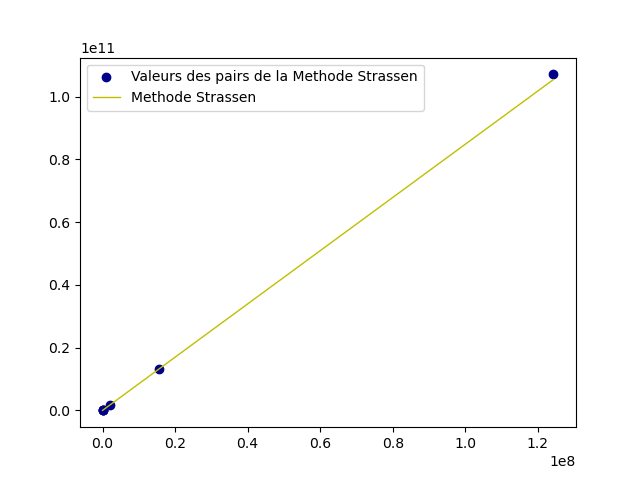
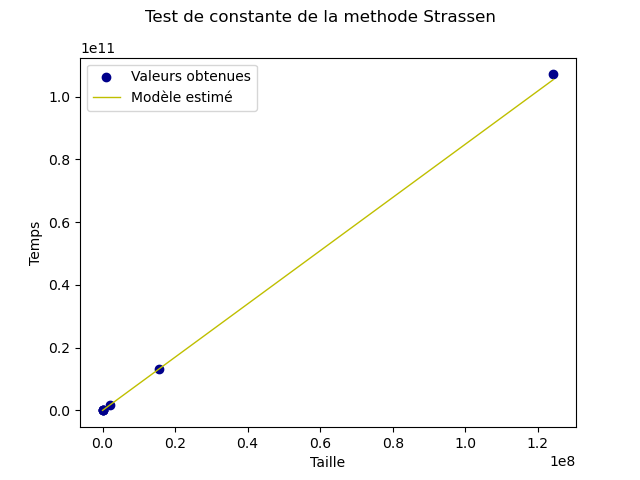
Push pour standardiser

diff --git a/TP1-A23/TP1-A23/argparser.py b/TP1-A23/TP1-A23/argparser.py
@@ -1,61 +1,35 @@
 import argparse
 import os.path
 import sys
-import time
+from execute import execute
 
-# Créer un parseur avec les options requises
-parser = argparse.ArgumentParser(description='Faire une opération sur deux fichiers de matrices.')
-parser.add_argument('-a', dest='algo', required=True, choices=['conv', 'strassen', 'strassenSeuil'], help='l\'algorithme à utiliser')
-parser.add_argument('-e1', dest='path1', required=True, type=str, help='chemin absolu du premier fichier de matrice')
-parser.add_argument('-e2', dest='path2', required=True, type=str, help='chemin absolu du deuxième fichier de matrice')
-parser.add_argument('-p', dest='print', action='store_true', help='affiche la matrice résultat sans texte superflu')
-parser.add_argument('-t', dest='time', action='store_true', help='affiche le temps d\'exécution en millisecondes')
+parser = argparse.ArgumentParser(
+    description='Faire une opération sur deux fichiers de matrices.')
+parser.add_argument('-a', dest='algo', required=True,
+                    choices=['conv', 'strassen', 'strassenSeuil'], help='l\'algorithme à utiliser')
+parser.add_argument('-e1', dest='path1', required=True, type=str,
+                    help='chemin absolu du premier fichier de matrice')
+parser.add_argument('-e2', dest='path2', required=True, type=str,
+                    help='chemin absolu du deuxième fichier de matrice')
+parser.add_argument('-p', dest='print', action='store_true',
+                    help='true affiche la matrice résultat sans texte superflu. False par défaut')
+parser.add_argument('-t', dest='time', action='store_true',
+                    help='true affiche le temps d\'exécution en millisecondes. False par défaut')
 
-# Vérifier que les fichiers existent
+# Verify that the files exist
+
+
 def check_file_exists(path):
     if not os.path.isfile(path):
         print(f'Erreur : Le fichier {path} n\'existe pas.')
         sys.exit(1)
 
-# Parser les arguments
+
+# Parse arguments
 args = parser.parse_args()
 check_file_exists(args.path1)
 check_file_exists(args.path2)
 
-# Lire les matrices depuis les fichiers
-with open(args.path1, 'r') as f:
-    mat1 = [[float(num) for num in line.split()] for line in f.readlines()]
-with open(args.path2, 'r') as f:
-    mat2 = [[float(num) for num in line.split()] for line in f.readlines()]
-
-# Vérifier que les matrices ont les mêmes dimensions
-if len(mat1) != len(mat2) or any(len(mat1[i]) != len(mat2[i]) for i in range(len(mat1))):
-    print('Erreur : Les matrices n\'ont pas les mêmes dimensions.')
-    sys.exit(1)
-
-# Exécuter l'algorithme demandé
-start_time = time.time()
-if args.algo == 'conv':
-    result = [[sum([mat1[i][k] * mat2[k][j] for k in range(len(mat1))]) for j in range(len(mat2[0]))] for i in range(len(mat1))]
-elif args.algo == 'strassen':
-    # TODO: Exécuter l'algorithme de Strassen
-    result = mat1
-elif args.algo == 'strassenSeuil':
-    # TODO: Exécuter l'algorithme de Strassen avec seuil
-    result = mat1
-end_time = time.time()
-
-# Afficher la matrice résultat, avec ou sans texte superflu
-if args.print:
-    for line in result:
-        print(' '.join(str(num) for num in line))
-else:
-    print('Résultat :')
-    for line in result:
-        print(' | '.join(str(num) for num in line))
-
-# Afficher le temps d'exécution, avec ou sans texte superflu
-if args.time:
-    print(f'Temps d\'exécution : {(end_time - start_time) * 1000:.2f} ms')
-else:
-    print(f'Temps d\'exécution : {(end_time - start_time):.2f} secondes')
+# Execute wanted algorithm
+execute(args.path1, args.path2, method=args.algo,
+        is_time=args.print, is_print=args.time)

diff --git a/TP1-A23/TP1-A23/test.py b/TP1-A23/TP1-A23/test.py
@@ -32,10 +32,15 @@ def test_puissance(x_values, y_values, i):
     def predict(x, m, b):
         return m*x + b
     
-    plt.scatter(x, y, color=limit_colors[i], label=f"Valeurs de la Methode {methods[i]}")
-    plt.plot(x, predict(x, m, b), color=colors[i],  linewidth=1.0, label=f"Methode {methods[i]}")
+    fig = plt.figure()
+    fig.suptitle(f"Test de puissance de la methode {methods[i]}")
+    plt.ylabel('Temps (Log)')
+    plt.xlabel('Taille (Log)')
+    
+    plt.scatter(x, y, color=limit_colors[i], label=f"Valeurs obtenues")
+    plt.plot(x, predict(x, m, b), color=colors[i],  linewidth=1.0, label=f"Modèle estimé")
     plt.legend()
-    plt.savefig(f"puissance_{methods[i]}.png")
+    fig.savefig(f"puissance_{methods[i]}.png")
     plt.clf()     
 
 def test_rapport(x_values, y_values, i):
@@ -47,28 +52,30 @@ def test_rapport(x_values, y_values, i):
     
     limite_a = [c_values[i] for j in range(len(x_values))]
     
-    plt.plot(x_values[1:], limite_a[1:], color=limit_colors[i], label=f"Valeurs Limite de la Methode {methods[i]}")
-    plt.plot(x_values[1:], y[1:], color=colors[i],  linewidth=1.0, label=f"Methode {methods[i]}")
+    fig = plt.figure()
+    fig.suptitle(f"Test de rapport de la methode {methods[i]}")
+    plt.ylabel('Temps')
+    plt.xlabel('Taille')
+    # plt.plot(x_values[1:], limite_a[1:], color=limit_colors[i], label=f"Valeurs Limite de la Methode {methods[i]}")
+    plt.plot(x_values[1:], y[1:], color=colors[i],  linewidth=1.0, label=f"Modèle estimé")
     plt.legend()
-    plt.savefig(f"rapport_{methods[i]}.png")
+    fig.savefig(f"rapport_{methods[i]}.png")
     plt.clf()
     
 def test_constante(x_values, y_values, i):
-    def predict(x, m):
-        return (x**m)
-    
     x =np.power(x_values, m_values[i])
-    
-    # Trouver B
-    b = 0 
-    
+
     def function(x, c):
-        return c*x + b
+        return c*x
     
-    plt.scatter(x, y_values, color=limit_colors[i], label=f"Valeurs des pairs de la Methode {methods[i]}")
-    plt.plot(x, function(x, c_values[i]), color=colors[i],  linewidth=1.0, label=f"Methode {methods[i]}")
+    fig = plt.figure()
+    fig.suptitle(f"Test de constante de la methode {methods[i]}")
+    plt.ylabel('Temps')
+    plt.xlabel('Taille')
+    plt.scatter(x, y_values, color=limit_colors[i], label=f"Valeurs obtenues")
+    plt.plot(x, function(x, c_values[i]), color=colors[i],  linewidth=1.0, label=f"Modèle estimé")
     plt.legend()
-    plt.savefig(f"constante_{methods[i]}.png")
+    fig.savefig(f"constante_{methods[i]}.png")
     plt.clf()
 
 if __name__ == "__main__":
